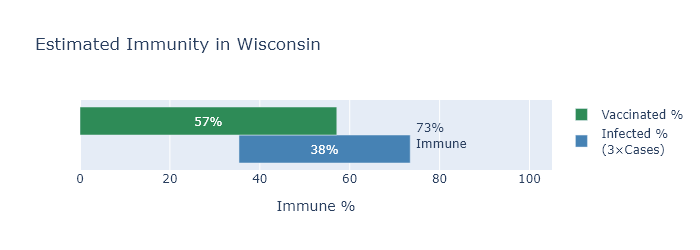
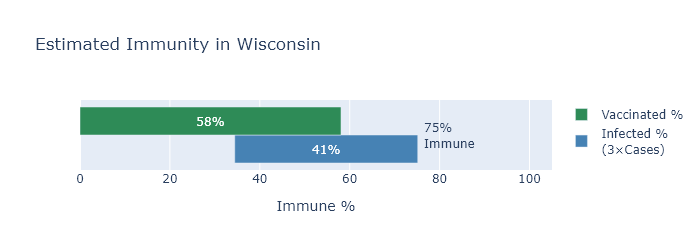
Update immune % estimates

diff --git a/docs/assets/plotly/Immune-Age.html b/docs/assets/plotly/Immune-Age.html
@@ -2,6 +2,6 @@
 <head><meta charset="utf-8" /></head>
 <body>
     <div>                        <script type="text/javascript">window.PlotlyConfig = {MathJaxConfig: 'local'};</script>
-        <script src="https://cdn.plot.ly/plotly-2.4.2.min.js"></script>                <div id="c954998f-ca0a-43e6-88ce-eabc3d1a52e5" class="plotly-graph-div" style="height:550px; width:700px;"></div>            <script type="text/javascript">                                    window.PLOTLYENV=window.PLOTLYENV || {};                                    if (document.getElementById("c954998f-ca0a-43e6-88ce-eabc3d1a52e5")) {                    Plotly.newPlot(                        "c954998f-ca0a-43e6-88ce-eabc3d1a52e5",                        [{"alignmentgroup":"True","base":[61.09587869964619,47.58997263241061,36.826702885190485,34.418061934301775,28.69430749563035,23.80360694993307,12.66368724701449],"hovertemplate":"=Est Infected %<br>Base=%{base}<br>Immune %=%{x}<br>Age group=%{y}<br>Label=%{text}<extra></extra>","insidetextanchor":"middle","legendgroup":"Est Infected %","marker":{"color":"steelblue","pattern":{"shape":""}},"name":"Infected %<br>(3&times;Cases)","offsetgroup":"Est Infected %","orientation":"h","showlegend":true,"text":["29%","35%","43%","46%","50%","55%","26%"],"textposition":"inside","type":"bar","x":[28.649685850321994,35.471070971498584,43.23286894214179,46.23353246476941,49.58382780765345,54.56351140349103,26.1012243037109],"xaxis":"x","y":["65+","55-64","45-54","35-44","25-34","18-24","<18"],"yaxis":"y"},{"alignmentgroup":"True","base":[0.0,0.0,0.0,0.0,0.0,0.0,0.0],"hovertemplate":"=Vaccinated %<br>Base=%{base}<br>Immune %=%{x}<br>Age group=%{y}<br>Label=%{text}<extra></extra>","insidetextanchor":"middle","legendgroup":"Vaccinated %","marker":{"color":"seagreen","pattern":{"shape":""}},"name":"Vaccinated %","offsetgroup":"Vaccinated %","orientation":"h","showlegend":true,"text":["86%","74%","65%","64%","57%","52%","17%"],"textposition":"inside","type":"bar","x":[85.62804442805934,73.74982561912792,64.87328529542204,64.01399145619762,56.914887124227775,52.38874676543991,17.13653186767262],"xaxis":"x","y":["65+","55-64","45-54","35-44","25-34","18-24","<18"],"yaxis":"y"}],                        {"annotations":[{"align":"left","showarrow":false,"text":"39%<br>Immune","x":45.76491155072539,"y":"<18"},{"align":"left","showarrow":false,"text":"78%<br>Immune","x":85.3671183534241,"y":"18-24"},{"align":"left","showarrow":false,"text":"78%<br>Immune","x":85.2781353032838,"y":"25-34"},{"align":"left","showarrow":false,"text":"81%<br>Immune","x":87.65159439907119,"y":"35-44"},{"align":"left","showarrow":false,"text":"80%<br>Immune","x":87.05957182733228,"y":"45-54"},{"align":"left","showarrow":false,"text":"83%<br>Immune","x":90.0610436039092,"y":"55-64"},{"align":"left","showarrow":false,"text":"90%<br>Immune","x":96.74556454996818,"y":"65+"}],"barmode":"group","height":550,"legend":{"title":{"text":""},"tracegroupgap":0,"traceorder":"reversed"},"showlegend":true,"template":{"data":{"bar":[{"error_x":{"color":"#2a3f5f"},"error_y":{"color":"#2a3f5f"},"marker":{"line":{"color":"#E5ECF6","width":0.5},"pattern":{"fillmode":"overlay","size":10,"solidity":0.2}},"type":"bar"}],"barpolar":[{"marker":{"line":{"color":"#E5ECF6","width":0.5},"pattern":{"fillmode":"overlay","size":10,"solidity":0.2}},"type":"barpolar"}],"carpet":[{"aaxis":{"endlinecolor":"#2a3f5f","gridcolor":"white","linecolor":"white","minorgridcolor":"white","startlinecolor":"#2a3f5f"},"baxis":{"endlinecolor":"#2a3f5f","gridcolor":"white","linecolor":"white","minorgridcolor":"white","startlinecolor":"#2a3f5f"},"type":"carpet"}],"choropleth":[{"colorbar":{"outlinewidth":0,"ticks":""},"type":"choropleth"}],"contour":[{"colorbar":{"outlinewidth":0,"ticks":""},"colorscale":[[0.0,"#0d0887"],[0.1111111111111111,"#46039f"],[0.2222222222222222,"#7201a8"],[0.3333333333333333,"#9c179e"],[0.4444444444444444,"#bd3786"],[0.5555555555555556,"#d8576b"],[0.6666666666666666,"#ed7953"],[0.7777777777777778,"#fb9f3a"],[0.8888888888888888,"#fdca26"],[1.0,"#f0f921"]],"type":"contour"}],"contourcarpet":[{"colorbar":{"outlinewidth":0,"ticks":""},"type":"contourcarpet"}],"heatmap":[{"colorbar":{"outlinewidth":0,"ticks":""},"colorscale":[[0.0,"#0d0887"],[0.1111111111111111,"#46039f"],[0.2222222222222222,"#7201a8"],[0.3333333333333333,"#9c179e"],[0.4444444444444444,"#bd3786"],[0.5555555555555556,"#d8576b"],[0.6666666666666666,"#ed7953"],[0.7777777777777778,"#fb9f3a"],[0.8888888888888888,"#fdca26"],[1.0,"#f0f921"]],"type":"heatmap"}],"heatmapgl":[{"colorbar":{"outlinewidth":0,"ticks":""},"colorscale":[[0.0,"#0d0887"],[0.1111111111111111,"#46039f"],[0.2222222222222222,"#7201a8"],[0.3333333333333333,"#9c179e"],[0.4444444444444444,"#bd3786"],[0.5555555555555556,"#d8576b"],[0.6666666666666666,"#ed7953"],[0.7777777777777778,"#fb9f3a"],[0.8888888888888888,"#fdca26"],[1.0,"#f0f921"]],"type":"heatmapgl"}],"histogram":[{"marker":{"pattern":{"fillmode":"overlay","size":10,"solidity":0.2}},"type":"histogram"}],"histogram2d":[{"colorbar":{"outlinewidth":0,"ticks":""},"colorscale":[[0.0,"#0d0887"],[0.1111111111111111,"#46039f"],[0.2222222222222222,"#7201a8"],[0.3333333333333333,"#9c179e"],[0.4444444444444444,"#bd3786"],[0.5555555555555556,"#d8576b"],[0.6666666666666666,"#ed7953"],[0.7777777777777778,"#fb9f3a"],[0.8888888888888888,"#fdca26"],[1.0,"#f0f921"]],"type":"histogram2d"}],"histogram2dcontour":[{"colorbar":{"outlinewidth":0,"ticks":""},"colorscale":[[0.0,"#0d0887"],[0.1111111111111111,"#46039f"],[0.2222222222222222,"#7201a8"],[0.3333333333333333,"#9c179e"],[0.4444444444444444,"#bd3786"],[0.5555555555555556,"#d8576b"],[0.6666666666666666,"#ed7953"],[0.7777777777777778,"#fb9f3a"],[0.8888888888888888,"#fdca26"],[1.0,"#f0f921"]],"type":"histogram2dcontour"}],"mesh3d":[{"colorbar":{"outlinewidth":0,"ticks":""},"type":"mesh3d"}],"parcoords":[{"line":{"colorbar":{"outlinewidth":0,"ticks":""}},"type":"parcoords"}],"pie":[{"automargin":true,"type":"pie"}],"scatter":[{"marker":{"colorbar":{"outlinewidth":0,"ticks":""}},"type":"scatter"}],"scatter3d":[{"line":{"colorbar":{"outlinewidth":0,"ticks":""}},"marker":{"colorbar":{"outlinewidth":0,"ticks":""}},"type":"scatter3d"}],"scattercarpet":[{"marker":{"colorbar":{"outlinewidth":0,"ticks":""}},"type":"scattercarpet"}],"scattergeo":[{"marker":{"colorbar":{"outlinewidth":0,"ticks":""}},"type":"scattergeo"}],"scattergl":[{"marker":{"colorbar":{"outlinewidth":0,"ticks":""}},"type":"scattergl"}],"scattermapbox":[{"marker":{"colorbar":{"outlinewidth":0,"ticks":""}},"type":"scattermapbox"}],"scatterpolar":[{"marker":{"colorbar":{"outlinewidth":0,"ticks":""}},"type":"scatterpolar"}],"scatterpolargl":[{"marker":{"colorbar":{"outlinewidth":0,"ticks":""}},"type":"scatterpolargl"}],"scatterternary":[{"marker":{"colorbar":{"outlinewidth":0,"ticks":""}},"type":"scatterternary"}],"surface":[{"colorbar":{"outlinewidth":0,"ticks":""},"colorscale":[[0.0,"#0d0887"],[0.1111111111111111,"#46039f"],[0.2222222222222222,"#7201a8"],[0.3333333333333333,"#9c179e"],[0.4444444444444444,"#bd3786"],[0.5555555555555556,"#d8576b"],[0.6666666666666666,"#ed7953"],[0.7777777777777778,"#fb9f3a"],[0.8888888888888888,"#fdca26"],[1.0,"#f0f921"]],"type":"surface"}],"table":[{"cells":{"fill":{"color":"#EBF0F8"},"line":{"color":"white"}},"header":{"fill":{"color":"#C8D4E3"},"line":{"color":"white"}},"type":"table"}]},"layout":{"annotationdefaults":{"arrowcolor":"#2a3f5f","arrowhead":0,"arrowwidth":1},"autotypenumbers":"strict","coloraxis":{"colorbar":{"outlinewidth":0,"ticks":""}},"colorscale":{"diverging":[[0,"#8e0152"],[0.1,"#c51b7d"],[0.2,"#de77ae"],[0.3,"#f1b6da"],[0.4,"#fde0ef"],[0.5,"#f7f7f7"],[0.6,"#e6f5d0"],[0.7,"#b8e186"],[0.8,"#7fbc41"],[0.9,"#4d9221"],[1,"#276419"]],"sequential":[[0.0,"#0d0887"],[0.1111111111111111,"#46039f"],[0.2222222222222222,"#7201a8"],[0.3333333333333333,"#9c179e"],[0.4444444444444444,"#bd3786"],[0.5555555555555556,"#d8576b"],[0.6666666666666666,"#ed7953"],[0.7777777777777778,"#fb9f3a"],[0.8888888888888888,"#fdca26"],[1.0,"#f0f921"]],"sequentialminus":[[0.0,"#0d0887"],[0.1111111111111111,"#46039f"],[0.2222222222222222,"#7201a8"],[0.3333333333333333,"#9c179e"],[0.4444444444444444,"#bd3786"],[0.5555555555555556,"#d8576b"],[0.6666666666666666,"#ed7953"],[0.7777777777777778,"#fb9f3a"],[0.8888888888888888,"#fdca26"],[1.0,"#f0f921"]]},"colorway":["#636efa","#EF553B","#00cc96","#ab63fa","#FFA15A","#19d3f3","#FF6692","#B6E880","#FF97FF","#FECB52"],"font":{"color":"#2a3f5f"},"geo":{"bgcolor":"white","lakecolor":"white","landcolor":"#E5ECF6","showlakes":true,"showland":true,"subunitcolor":"white"},"hoverlabel":{"align":"left"},"hovermode":"closest","mapbox":{"style":"light"},"paper_bgcolor":"white","plot_bgcolor":"#E5ECF6","polar":{"angularaxis":{"gridcolor":"white","linecolor":"white","ticks":""},"bgcolor":"#E5ECF6","radialaxis":{"gridcolor":"white","linecolor":"white","ticks":""}},"scene":{"xaxis":{"backgroundcolor":"#E5ECF6","gridcolor":"white","gridwidth":2,"linecolor":"white","showbackground":true,"ticks":"","zerolinecolor":"white"},"yaxis":{"backgroundcolor":"#E5ECF6","gridcolor":"white","gridwidth":2,"linecolor":"white","showbackground":true,"ticks":"","zerolinecolor":"white"},"zaxis":{"backgroundcolor":"#E5ECF6","gridcolor":"white","gridwidth":2,"linecolor":"white","showbackground":true,"ticks":"","zerolinecolor":"white"}},"shapedefaults":{"line":{"color":"#2a3f5f"}},"ternary":{"aaxis":{"gridcolor":"white","linecolor":"white","ticks":""},"baxis":{"gridcolor":"white","linecolor":"white","ticks":""},"bgcolor":"#E5ECF6","caxis":{"gridcolor":"white","linecolor":"white","ticks":""}},"title":{"x":0.05},"xaxis":{"automargin":true,"gridcolor":"white","linecolor":"white","ticks":"","title":{"standoff":15},"zerolinecolor":"white","zerolinewidth":2},"yaxis":{"automargin":true,"gridcolor":"white","linecolor":"white","ticks":"","title":{"standoff":15},"zerolinecolor":"white","zerolinewidth":2}}},"title":{"text":"Estimated Immunity by Age Group"},"width":700,"xaxis":{"anchor":"y","domain":[0.0,1.0],"range":[0,105],"title":{"text":"Immune %"}},"yaxis":{"anchor":"x","domain":[0.0,1.0],"title":{"text":"Age group"}}},                        {"responsive": true}                    )                };                            </script>        </div>
+        <script src="https://cdn.plot.ly/plotly-2.2.0.min.js"></script>                <div id="4af7ff85-3005-4d7d-97e8-a7afa78a392b" class="plotly-graph-div" style="height:550px; width:700px;"></div>            <script type="text/javascript">                                    window.PLOTLYENV=window.PLOTLYENV || {};                                    if (document.getElementById("4af7ff85-3005-4d7d-97e8-a7afa78a392b")) {                    Plotly.newPlot(                        "4af7ff85-3005-4d7d-97e8-a7afa78a392b",                        [{"alignmentgroup":"True","base":[60.1152527995265,46.476547258989115,35.68314380180941,32.95476228059364,27.73828306927856,23.188937403184084,12.44529407235307],"hovertemplate":"=Est Infected %<br>Base=%{base}<br>Immune %=%{x}<br>Age group=%{y}<br>Label=%{text}<extra></extra>","insidetextanchor":"middle","legendgroup":"Est Infected %","marker":{"color":"steelblue","pattern":{"shape":""}},"name":"Infected %<br>(3&times;Cases)","offsetgroup":"Est Infected %","orientation":"h","showlegend":true,"text":["31%","38%","46%","49%","52%","57%","29%"],"textposition":"inside","type":"bar","x":[30.523700455732744,37.63060369141561,45.78120459951647,49.46475261604958,52.482860107281155,56.751149912549636,29.3213140289945],"xaxis":"x","y":["65+","55-64","45-54","35-44","25-34","18-24","<18"],"yaxis":"y"},{"alignmentgroup":"True","base":[0.0,0.0,0.0,0.0,0.0,0.0,0.0],"hovertemplate":"=Vaccinated %<br>Base=%{base}<br>Immune %=%{x}<br>Age group=%{y}<br>Label=%{text}<extra></extra>","insidetextanchor":"middle","legendgroup":"Vaccinated %","marker":{"color":"seagreen","pattern":{"shape":""}},"name":"Vaccinated %","offsetgroup":"Vaccinated %","orientation":"h","showlegend":true,"text":["87%","75%","66%","65%","58%","54%","18%"],"textposition":"inside","type":"bar","x":[86.52627326707821,74.51819323220253,65.81323605262389,65.21143951312644,58.3753212670297,53.61746579688342,17.608270302957386],"xaxis":"x","y":["65+","55-64","45-54","35-44","25-34","18-24","<18"],"yaxis":"y"}],                        {"annotations":[{"align":"left","showarrow":false,"text":"42%<br>Immune","x":48.76660810134757,"y":"<18"},{"align":"left","showarrow":false,"text":"80%<br>Immune","x":86.94008731573372,"y":"18-24"},{"align":"left","showarrow":false,"text":"80%<br>Immune","x":87.2211431765597,"y":"25-34"},{"align":"left","showarrow":false,"text":"82%<br>Immune","x":89.41951489664322,"y":"35-44"},{"align":"left","showarrow":false,"text":"81%<br>Immune","x":88.46434840132588,"y":"45-54"},{"align":"left","showarrow":false,"text":"84%<br>Immune","x":91.10715095040472,"y":"55-64"},{"align":"left","showarrow":false,"text":"91%<br>Immune","x":97.63895325525924,"y":"65+"}],"barmode":"group","height":550,"legend":{"title":{"text":""},"tracegroupgap":0,"traceorder":"reversed"},"showlegend":true,"template":{"data":{"bar":[{"error_x":{"color":"#2a3f5f"},"error_y":{"color":"#2a3f5f"},"marker":{"line":{"color":"#E5ECF6","width":0.5},"pattern":{"fillmode":"overlay","size":10,"solidity":0.2}},"type":"bar"}],"barpolar":[{"marker":{"line":{"color":"#E5ECF6","width":0.5},"pattern":{"fillmode":"overlay","size":10,"solidity":0.2}},"type":"barpolar"}],"carpet":[{"aaxis":{"endlinecolor":"#2a3f5f","gridcolor":"white","linecolor":"white","minorgridcolor":"white","startlinecolor":"#2a3f5f"},"baxis":{"endlinecolor":"#2a3f5f","gridcolor":"white","linecolor":"white","minorgridcolor":"white","startlinecolor":"#2a3f5f"},"type":"carpet"}],"choropleth":[{"colorbar":{"outlinewidth":0,"ticks":""},"type":"choropleth"}],"contour":[{"colorbar":{"outlinewidth":0,"ticks":""},"colorscale":[[0.0,"#0d0887"],[0.1111111111111111,"#46039f"],[0.2222222222222222,"#7201a8"],[0.3333333333333333,"#9c179e"],[0.4444444444444444,"#bd3786"],[0.5555555555555556,"#d8576b"],[0.6666666666666666,"#ed7953"],[0.7777777777777778,"#fb9f3a"],[0.8888888888888888,"#fdca26"],[1.0,"#f0f921"]],"type":"contour"}],"contourcarpet":[{"colorbar":{"outlinewidth":0,"ticks":""},"type":"contourcarpet"}],"heatmap":[{"colorbar":{"outlinewidth":0,"ticks":""},"colorscale":[[0.0,"#0d0887"],[0.1111111111111111,"#46039f"],[0.2222222222222222,"#7201a8"],[0.3333333333333333,"#9c179e"],[0.4444444444444444,"#bd3786"],[0.5555555555555556,"#d8576b"],[0.6666666666666666,"#ed7953"],[0.7777777777777778,"#fb9f3a"],[0.8888888888888888,"#fdca26"],[1.0,"#f0f921"]],"type":"heatmap"}],"heatmapgl":[{"colorbar":{"outlinewidth":0,"ticks":""},"colorscale":[[0.0,"#0d0887"],[0.1111111111111111,"#46039f"],[0.2222222222222222,"#7201a8"],[0.3333333333333333,"#9c179e"],[0.4444444444444444,"#bd3786"],[0.5555555555555556,"#d8576b"],[0.6666666666666666,"#ed7953"],[0.7777777777777778,"#fb9f3a"],[0.8888888888888888,"#fdca26"],[1.0,"#f0f921"]],"type":"heatmapgl"}],"histogram":[{"marker":{"pattern":{"fillmode":"overlay","size":10,"solidity":0.2}},"type":"histogram"}],"histogram2d":[{"colorbar":{"outlinewidth":0,"ticks":""},"colorscale":[[0.0,"#0d0887"],[0.1111111111111111,"#46039f"],[0.2222222222222222,"#7201a8"],[0.3333333333333333,"#9c179e"],[0.4444444444444444,"#bd3786"],[0.5555555555555556,"#d8576b"],[0.6666666666666666,"#ed7953"],[0.7777777777777778,"#fb9f3a"],[0.8888888888888888,"#fdca26"],[1.0,"#f0f921"]],"type":"histogram2d"}],"histogram2dcontour":[{"colorbar":{"outlinewidth":0,"ticks":""},"colorscale":[[0.0,"#0d0887"],[0.1111111111111111,"#46039f"],[0.2222222222222222,"#7201a8"],[0.3333333333333333,"#9c179e"],[0.4444444444444444,"#bd3786"],[0.5555555555555556,"#d8576b"],[0.6666666666666666,"#ed7953"],[0.7777777777777778,"#fb9f3a"],[0.8888888888888888,"#fdca26"],[1.0,"#f0f921"]],"type":"histogram2dcontour"}],"mesh3d":[{"colorbar":{"outlinewidth":0,"ticks":""},"type":"mesh3d"}],"parcoords":[{"line":{"colorbar":{"outlinewidth":0,"ticks":""}},"type":"parcoords"}],"pie":[{"automargin":true,"type":"pie"}],"scatter":[{"marker":{"colorbar":{"outlinewidth":0,"ticks":""}},"type":"scatter"}],"scatter3d":[{"line":{"colorbar":{"outlinewidth":0,"ticks":""}},"marker":{"colorbar":{"outlinewidth":0,"ticks":""}},"type":"scatter3d"}],"scattercarpet":[{"marker":{"colorbar":{"outlinewidth":0,"ticks":""}},"type":"scattercarpet"}],"scattergeo":[{"marker":{"colorbar":{"outlinewidth":0,"ticks":""}},"type":"scattergeo"}],"scattergl":[{"marker":{"colorbar":{"outlinewidth":0,"ticks":""}},"type":"scattergl"}],"scattermapbox":[{"marker":{"colorbar":{"outlinewidth":0,"ticks":""}},"type":"scattermapbox"}],"scatterpolar":[{"marker":{"colorbar":{"outlinewidth":0,"ticks":""}},"type":"scatterpolar"}],"scatterpolargl":[{"marker":{"colorbar":{"outlinewidth":0,"ticks":""}},"type":"scatterpolargl"}],"scatterternary":[{"marker":{"colorbar":{"outlinewidth":0,"ticks":""}},"type":"scatterternary"}],"surface":[{"colorbar":{"outlinewidth":0,"ticks":""},"colorscale":[[0.0,"#0d0887"],[0.1111111111111111,"#46039f"],[0.2222222222222222,"#7201a8"],[0.3333333333333333,"#9c179e"],[0.4444444444444444,"#bd3786"],[0.5555555555555556,"#d8576b"],[0.6666666666666666,"#ed7953"],[0.7777777777777778,"#fb9f3a"],[0.8888888888888888,"#fdca26"],[1.0,"#f0f921"]],"type":"surface"}],"table":[{"cells":{"fill":{"color":"#EBF0F8"},"line":{"color":"white"}},"header":{"fill":{"color":"#C8D4E3"},"line":{"color":"white"}},"type":"table"}]},"layout":{"annotationdefaults":{"arrowcolor":"#2a3f5f","arrowhead":0,"arrowwidth":1},"autotypenumbers":"strict","coloraxis":{"colorbar":{"outlinewidth":0,"ticks":""}},"colorscale":{"diverging":[[0,"#8e0152"],[0.1,"#c51b7d"],[0.2,"#de77ae"],[0.3,"#f1b6da"],[0.4,"#fde0ef"],[0.5,"#f7f7f7"],[0.6,"#e6f5d0"],[0.7,"#b8e186"],[0.8,"#7fbc41"],[0.9,"#4d9221"],[1,"#276419"]],"sequential":[[0.0,"#0d0887"],[0.1111111111111111,"#46039f"],[0.2222222222222222,"#7201a8"],[0.3333333333333333,"#9c179e"],[0.4444444444444444,"#bd3786"],[0.5555555555555556,"#d8576b"],[0.6666666666666666,"#ed7953"],[0.7777777777777778,"#fb9f3a"],[0.8888888888888888,"#fdca26"],[1.0,"#f0f921"]],"sequentialminus":[[0.0,"#0d0887"],[0.1111111111111111,"#46039f"],[0.2222222222222222,"#7201a8"],[0.3333333333333333,"#9c179e"],[0.4444444444444444,"#bd3786"],[0.5555555555555556,"#d8576b"],[0.6666666666666666,"#ed7953"],[0.7777777777777778,"#fb9f3a"],[0.8888888888888888,"#fdca26"],[1.0,"#f0f921"]]},"colorway":["#636efa","#EF553B","#00cc96","#ab63fa","#FFA15A","#19d3f3","#FF6692","#B6E880","#FF97FF","#FECB52"],"font":{"color":"#2a3f5f"},"geo":{"bgcolor":"white","lakecolor":"white","landcolor":"#E5ECF6","showlakes":true,"showland":true,"subunitcolor":"white"},"hoverlabel":{"align":"left"},"hovermode":"closest","mapbox":{"style":"light"},"paper_bgcolor":"white","plot_bgcolor":"#E5ECF6","polar":{"angularaxis":{"gridcolor":"white","linecolor":"white","ticks":""},"bgcolor":"#E5ECF6","radialaxis":{"gridcolor":"white","linecolor":"white","ticks":""}},"scene":{"xaxis":{"backgroundcolor":"#E5ECF6","gridcolor":"white","gridwidth":2,"linecolor":"white","showbackground":true,"ticks":"","zerolinecolor":"white"},"yaxis":{"backgroundcolor":"#E5ECF6","gridcolor":"white","gridwidth":2,"linecolor":"white","showbackground":true,"ticks":"","zerolinecolor":"white"},"zaxis":{"backgroundcolor":"#E5ECF6","gridcolor":"white","gridwidth":2,"linecolor":"white","showbackground":true,"ticks":"","zerolinecolor":"white"}},"shapedefaults":{"line":{"color":"#2a3f5f"}},"ternary":{"aaxis":{"gridcolor":"white","linecolor":"white","ticks":""},"baxis":{"gridcolor":"white","linecolor":"white","ticks":""},"bgcolor":"#E5ECF6","caxis":{"gridcolor":"white","linecolor":"white","ticks":""}},"title":{"x":0.05},"xaxis":{"automargin":true,"gridcolor":"white","linecolor":"white","ticks":"","title":{"standoff":15},"zerolinecolor":"white","zerolinewidth":2},"yaxis":{"automargin":true,"gridcolor":"white","linecolor":"white","ticks":"","title":{"standoff":15},"zerolinecolor":"white","zerolinewidth":2}}},"title":{"text":"Estimated Immunity by Age Group"},"width":700,"xaxis":{"anchor":"y","domain":[0.0,1.0],"range":[0,105],"title":{"text":"Immune %"}},"yaxis":{"anchor":"x","domain":[0.0,1.0],"title":{"text":"Age group"}}},                        {"responsive": true}                    )                };                            </script>        </div>
 </body>
 </html>

diff --git a/docs/assets/plotly/Immune-Total.html b/docs/assets/plotly/Immune-Total.html
@@ -2,6 +2,6 @@
 <head><meta charset="utf-8" /></head>
 <body>
     <div>                        <script type="text/javascript">window.PlotlyConfig = {MathJaxConfig: 'local'};</script>
-        <script src="https://cdn.plot.ly/plotly-2.4.2.min.js"></script>                <div id="9867ada9-27e5-41fa-8702-17603ba320d8" class="plotly-graph-div" style="height:250px; width:700px;"></div>            <script type="text/javascript">                                    window.PLOTLYENV=window.PLOTLYENV || {};                                    if (document.getElementById("9867ada9-27e5-41fa-8702-17603ba320d8")) {                    Plotly.newPlot(                        "9867ada9-27e5-41fa-8702-17603ba320d8",                        [{"alignmentgroup":"True","base":[35.366464943931675],"hovertemplate":"=Est Infected %<br>Base=%{base}<br>Immune %=%{x}<br>Age group=%{y}<br>Label=%{text}<extra></extra>","insidetextanchor":"middle","legendgroup":"Est Infected %","marker":{"color":"steelblue","pattern":{"shape":""}},"name":"Infected %<br>(3&times;Cases)","offsetgroup":"Est Infected %","orientation":"h","showlegend":true,"text":["38%"],"textposition":"inside","type":"bar","x":[38.09262586746368],"xaxis":"x","y":[" "],"yaxis":"y"},{"alignmentgroup":"True","base":[0.0],"hovertemplate":"=Vaccinated %<br>Base=%{base}<br>Immune %=%{x}<br>Age group=%{y}<br>Label=%{text}<extra></extra>","insidetextanchor":"middle","legendgroup":"Vaccinated %","marker":{"color":"seagreen","pattern":{"shape":""}},"name":"Vaccinated %","offsetgroup":"Vaccinated %","orientation":"h","showlegend":true,"text":["57%"],"textposition":"inside","type":"bar","x":[57.12803270934458],"xaxis":"x","y":[" "],"yaxis":"y"}],                        {"annotations":[{"align":"left","showarrow":false,"text":"73%<br>Immune","x":80.45909081139536,"y":" "}],"barmode":"group","height":250,"legend":{"title":{"text":""},"tracegroupgap":0,"traceorder":"reversed"},"showlegend":true,"template":{"data":{"bar":[{"error_x":{"color":"#2a3f5f"},"error_y":{"color":"#2a3f5f"},"marker":{"line":{"color":"#E5ECF6","width":0.5},"pattern":{"fillmode":"overlay","size":10,"solidity":0.2}},"type":"bar"}],"barpolar":[{"marker":{"line":{"color":"#E5ECF6","width":0.5},"pattern":{"fillmode":"overlay","size":10,"solidity":0.2}},"type":"barpolar"}],"carpet":[{"aaxis":{"endlinecolor":"#2a3f5f","gridcolor":"white","linecolor":"white","minorgridcolor":"white","startlinecolor":"#2a3f5f"},"baxis":{"endlinecolor":"#2a3f5f","gridcolor":"white","linecolor":"white","minorgridcolor":"white","startlinecolor":"#2a3f5f"},"type":"carpet"}],"choropleth":[{"colorbar":{"outlinewidth":0,"ticks":""},"type":"choropleth"}],"contour":[{"colorbar":{"outlinewidth":0,"ticks":""},"colorscale":[[0.0,"#0d0887"],[0.1111111111111111,"#46039f"],[0.2222222222222222,"#7201a8"],[0.3333333333333333,"#9c179e"],[0.4444444444444444,"#bd3786"],[0.5555555555555556,"#d8576b"],[0.6666666666666666,"#ed7953"],[0.7777777777777778,"#fb9f3a"],[0.8888888888888888,"#fdca26"],[1.0,"#f0f921"]],"type":"contour"}],"contourcarpet":[{"colorbar":{"outlinewidth":0,"ticks":""},"type":"contourcarpet"}],"heatmap":[{"colorbar":{"outlinewidth":0,"ticks":""},"colorscale":[[0.0,"#0d0887"],[0.1111111111111111,"#46039f"],[0.2222222222222222,"#7201a8"],[0.3333333333333333,"#9c179e"],[0.4444444444444444,"#bd3786"],[0.5555555555555556,"#d8576b"],[0.6666666666666666,"#ed7953"],[0.7777777777777778,"#fb9f3a"],[0.8888888888888888,"#fdca26"],[1.0,"#f0f921"]],"type":"heatmap"}],"heatmapgl":[{"colorbar":{"outlinewidth":0,"ticks":""},"colorscale":[[0.0,"#0d0887"],[0.1111111111111111,"#46039f"],[0.2222222222222222,"#7201a8"],[0.3333333333333333,"#9c179e"],[0.4444444444444444,"#bd3786"],[0.5555555555555556,"#d8576b"],[0.6666666666666666,"#ed7953"],[0.7777777777777778,"#fb9f3a"],[0.8888888888888888,"#fdca26"],[1.0,"#f0f921"]],"type":"heatmapgl"}],"histogram":[{"marker":{"pattern":{"fillmode":"overlay","size":10,"solidity":0.2}},"type":"histogram"}],"histogram2d":[{"colorbar":{"outlinewidth":0,"ticks":""},"colorscale":[[0.0,"#0d0887"],[0.1111111111111111,"#46039f"],[0.2222222222222222,"#7201a8"],[0.3333333333333333,"#9c179e"],[0.4444444444444444,"#bd3786"],[0.5555555555555556,"#d8576b"],[0.6666666666666666,"#ed7953"],[0.7777777777777778,"#fb9f3a"],[0.8888888888888888,"#fdca26"],[1.0,"#f0f921"]],"type":"histogram2d"}],"histogram2dcontour":[{"colorbar":{"outlinewidth":0,"ticks":""},"colorscale":[[0.0,"#0d0887"],[0.1111111111111111,"#46039f"],[0.2222222222222222,"#7201a8"],[0.3333333333333333,"#9c179e"],[0.4444444444444444,"#bd3786"],[0.5555555555555556,"#d8576b"],[0.6666666666666666,"#ed7953"],[0.7777777777777778,"#fb9f3a"],[0.8888888888888888,"#fdca26"],[1.0,"#f0f921"]],"type":"histogram2dcontour"}],"mesh3d":[{"colorbar":{"outlinewidth":0,"ticks":""},"type":"mesh3d"}],"parcoords":[{"line":{"colorbar":{"outlinewidth":0,"ticks":""}},"type":"parcoords"}],"pie":[{"automargin":true,"type":"pie"}],"scatter":[{"marker":{"colorbar":{"outlinewidth":0,"ticks":""}},"type":"scatter"}],"scatter3d":[{"line":{"colorbar":{"outlinewidth":0,"ticks":""}},"marker":{"colorbar":{"outlinewidth":0,"ticks":""}},"type":"scatter3d"}],"scattercarpet":[{"marker":{"colorbar":{"outlinewidth":0,"ticks":""}},"type":"scattercarpet"}],"scattergeo":[{"marker":{"colorbar":{"outlinewidth":0,"ticks":""}},"type":"scattergeo"}],"scattergl":[{"marker":{"colorbar":{"outlinewidth":0,"ticks":""}},"type":"scattergl"}],"scattermapbox":[{"marker":{"colorbar":{"outlinewidth":0,"ticks":""}},"type":"scattermapbox"}],"scatterpolar":[{"marker":{"colorbar":{"outlinewidth":0,"ticks":""}},"type":"scatterpolar"}],"scatterpolargl":[{"marker":{"colorbar":{"outlinewidth":0,"ticks":""}},"type":"scatterpolargl"}],"scatterternary":[{"marker":{"colorbar":{"outlinewidth":0,"ticks":""}},"type":"scatterternary"}],"surface":[{"colorbar":{"outlinewidth":0,"ticks":""},"colorscale":[[0.0,"#0d0887"],[0.1111111111111111,"#46039f"],[0.2222222222222222,"#7201a8"],[0.3333333333333333,"#9c179e"],[0.4444444444444444,"#bd3786"],[0.5555555555555556,"#d8576b"],[0.6666666666666666,"#ed7953"],[0.7777777777777778,"#fb9f3a"],[0.8888888888888888,"#fdca26"],[1.0,"#f0f921"]],"type":"surface"}],"table":[{"cells":{"fill":{"color":"#EBF0F8"},"line":{"color":"white"}},"header":{"fill":{"color":"#C8D4E3"},"line":{"color":"white"}},"type":"table"}]},"layout":{"annotationdefaults":{"arrowcolor":"#2a3f5f","arrowhead":0,"arrowwidth":1},"autotypenumbers":"strict","coloraxis":{"colorbar":{"outlinewidth":0,"ticks":""}},"colorscale":{"diverging":[[0,"#8e0152"],[0.1,"#c51b7d"],[0.2,"#de77ae"],[0.3,"#f1b6da"],[0.4,"#fde0ef"],[0.5,"#f7f7f7"],[0.6,"#e6f5d0"],[0.7,"#b8e186"],[0.8,"#7fbc41"],[0.9,"#4d9221"],[1,"#276419"]],"sequential":[[0.0,"#0d0887"],[0.1111111111111111,"#46039f"],[0.2222222222222222,"#7201a8"],[0.3333333333333333,"#9c179e"],[0.4444444444444444,"#bd3786"],[0.5555555555555556,"#d8576b"],[0.6666666666666666,"#ed7953"],[0.7777777777777778,"#fb9f3a"],[0.8888888888888888,"#fdca26"],[1.0,"#f0f921"]],"sequentialminus":[[0.0,"#0d0887"],[0.1111111111111111,"#46039f"],[0.2222222222222222,"#7201a8"],[0.3333333333333333,"#9c179e"],[0.4444444444444444,"#bd3786"],[0.5555555555555556,"#d8576b"],[0.6666666666666666,"#ed7953"],[0.7777777777777778,"#fb9f3a"],[0.8888888888888888,"#fdca26"],[1.0,"#f0f921"]]},"colorway":["#636efa","#EF553B","#00cc96","#ab63fa","#FFA15A","#19d3f3","#FF6692","#B6E880","#FF97FF","#FECB52"],"font":{"color":"#2a3f5f"},"geo":{"bgcolor":"white","lakecolor":"white","landcolor":"#E5ECF6","showlakes":true,"showland":true,"subunitcolor":"white"},"hoverlabel":{"align":"left"},"hovermode":"closest","mapbox":{"style":"light"},"paper_bgcolor":"white","plot_bgcolor":"#E5ECF6","polar":{"angularaxis":{"gridcolor":"white","linecolor":"white","ticks":""},"bgcolor":"#E5ECF6","radialaxis":{"gridcolor":"white","linecolor":"white","ticks":""}},"scene":{"xaxis":{"backgroundcolor":"#E5ECF6","gridcolor":"white","gridwidth":2,"linecolor":"white","showbackground":true,"ticks":"","zerolinecolor":"white"},"yaxis":{"backgroundcolor":"#E5ECF6","gridcolor":"white","gridwidth":2,"linecolor":"white","showbackground":true,"ticks":"","zerolinecolor":"white"},"zaxis":{"backgroundcolor":"#E5ECF6","gridcolor":"white","gridwidth":2,"linecolor":"white","showbackground":true,"ticks":"","zerolinecolor":"white"}},"shapedefaults":{"line":{"color":"#2a3f5f"}},"ternary":{"aaxis":{"gridcolor":"white","linecolor":"white","ticks":""},"baxis":{"gridcolor":"white","linecolor":"white","ticks":""},"bgcolor":"#E5ECF6","caxis":{"gridcolor":"white","linecolor":"white","ticks":""}},"title":{"x":0.05},"xaxis":{"automargin":true,"gridcolor":"white","linecolor":"white","ticks":"","title":{"standoff":15},"zerolinecolor":"white","zerolinewidth":2},"yaxis":{"automargin":true,"gridcolor":"white","linecolor":"white","ticks":"","title":{"standoff":15},"zerolinecolor":"white","zerolinewidth":2}}},"title":{"text":"Estimated Immunity in Wisconsin"},"width":700,"xaxis":{"anchor":"y","domain":[0.0,1.0],"range":[0,105],"title":{"text":"Immune %"}},"yaxis":{"anchor":"x","domain":[0.0,1.0],"title":{"text":""}}},                        {"responsive": true}                    )                };                            </script>        </div>
+        <script src="https://cdn.plot.ly/plotly-2.2.0.min.js"></script>                <div id="6cca0f30-dc75-4450-8c4f-656d11b157eb" class="plotly-graph-div" style="height:250px; width:700px;"></div>            <script type="text/javascript">                                    window.PLOTLYENV=window.PLOTLYENV || {};                                    if (document.getElementById("6cca0f30-dc75-4450-8c4f-656d11b157eb")) {                    Plotly.newPlot(                        "6cca0f30-dc75-4450-8c4f-656d11b157eb",                        [{"alignmentgroup":"True","base":[34.424449934702636],"hovertemplate":"=Est Infected %<br>Base=%{base}<br>Immune %=%{x}<br>Age group=%{y}<br>Label=%{text}<extra></extra>","insidetextanchor":"middle","legendgroup":"Est Infected %","marker":{"color":"steelblue","pattern":{"shape":""}},"name":"Infected %<br>(3&times;Cases)","offsetgroup":"Est Infected %","orientation":"h","showlegend":true,"text":["41%"],"textposition":"inside","type":"bar","x":[40.708078442795575],"xaxis":"x","y":[" "],"yaxis":"y"},{"alignmentgroup":"True","base":[0.0],"hovertemplate":"=Vaccinated %<br>Base=%{base}<br>Immune %=%{x}<br>Age group=%{y}<br>Label=%{text}<extra></extra>","insidetextanchor":"middle","legendgroup":"Vaccinated %","marker":{"color":"seagreen","pattern":{"shape":""}},"name":"Vaccinated %","offsetgroup":"Vaccinated %","orientation":"h","showlegend":true,"text":["58%"],"textposition":"inside","type":"bar","x":[58.05925837888416],"xaxis":"x","y":[" "],"yaxis":"y"}],                        {"annotations":[{"align":"left","showarrow":false,"text":"75%<br>Immune","x":82.1325283774982,"y":" "}],"barmode":"group","height":250,"legend":{"title":{"text":""},"tracegroupgap":0,"traceorder":"reversed"},"showlegend":true,"template":{"data":{"bar":[{"error_x":{"color":"#2a3f5f"},"error_y":{"color":"#2a3f5f"},"marker":{"line":{"color":"#E5ECF6","width":0.5},"pattern":{"fillmode":"overlay","size":10,"solidity":0.2}},"type":"bar"}],"barpolar":[{"marker":{"line":{"color":"#E5ECF6","width":0.5},"pattern":{"fillmode":"overlay","size":10,"solidity":0.2}},"type":"barpolar"}],"carpet":[{"aaxis":{"endlinecolor":"#2a3f5f","gridcolor":"white","linecolor":"white","minorgridcolor":"white","startlinecolor":"#2a3f5f"},"baxis":{"endlinecolor":"#2a3f5f","gridcolor":"white","linecolor":"white","minorgridcolor":"white","startlinecolor":"#2a3f5f"},"type":"carpet"}],"choropleth":[{"colorbar":{"outlinewidth":0,"ticks":""},"type":"choropleth"}],"contour":[{"colorbar":{"outlinewidth":0,"ticks":""},"colorscale":[[0.0,"#0d0887"],[0.1111111111111111,"#46039f"],[0.2222222222222222,"#7201a8"],[0.3333333333333333,"#9c179e"],[0.4444444444444444,"#bd3786"],[0.5555555555555556,"#d8576b"],[0.6666666666666666,"#ed7953"],[0.7777777777777778,"#fb9f3a"],[0.8888888888888888,"#fdca26"],[1.0,"#f0f921"]],"type":"contour"}],"contourcarpet":[{"colorbar":{"outlinewidth":0,"ticks":""},"type":"contourcarpet"}],"heatmap":[{"colorbar":{"outlinewidth":0,"ticks":""},"colorscale":[[0.0,"#0d0887"],[0.1111111111111111,"#46039f"],[0.2222222222222222,"#7201a8"],[0.3333333333333333,"#9c179e"],[0.4444444444444444,"#bd3786"],[0.5555555555555556,"#d8576b"],[0.6666666666666666,"#ed7953"],[0.7777777777777778,"#fb9f3a"],[0.8888888888888888,"#fdca26"],[1.0,"#f0f921"]],"type":"heatmap"}],"heatmapgl":[{"colorbar":{"outlinewidth":0,"ticks":""},"colorscale":[[0.0,"#0d0887"],[0.1111111111111111,"#46039f"],[0.2222222222222222,"#7201a8"],[0.3333333333333333,"#9c179e"],[0.4444444444444444,"#bd3786"],[0.5555555555555556,"#d8576b"],[0.6666666666666666,"#ed7953"],[0.7777777777777778,"#fb9f3a"],[0.8888888888888888,"#fdca26"],[1.0,"#f0f921"]],"type":"heatmapgl"}],"histogram":[{"marker":{"pattern":{"fillmode":"overlay","size":10,"solidity":0.2}},"type":"histogram"}],"histogram2d":[{"colorbar":{"outlinewidth":0,"ticks":""},"colorscale":[[0.0,"#0d0887"],[0.1111111111111111,"#46039f"],[0.2222222222222222,"#7201a8"],[0.3333333333333333,"#9c179e"],[0.4444444444444444,"#bd3786"],[0.5555555555555556,"#d8576b"],[0.6666666666666666,"#ed7953"],[0.7777777777777778,"#fb9f3a"],[0.8888888888888888,"#fdca26"],[1.0,"#f0f921"]],"type":"histogram2d"}],"histogram2dcontour":[{"colorbar":{"outlinewidth":0,"ticks":""},"colorscale":[[0.0,"#0d0887"],[0.1111111111111111,"#46039f"],[0.2222222222222222,"#7201a8"],[0.3333333333333333,"#9c179e"],[0.4444444444444444,"#bd3786"],[0.5555555555555556,"#d8576b"],[0.6666666666666666,"#ed7953"],[0.7777777777777778,"#fb9f3a"],[0.8888888888888888,"#fdca26"],[1.0,"#f0f921"]],"type":"histogram2dcontour"}],"mesh3d":[{"colorbar":{"outlinewidth":0,"ticks":""},"type":"mesh3d"}],"parcoords":[{"line":{"colorbar":{"outlinewidth":0,"ticks":""}},"type":"parcoords"}],"pie":[{"automargin":true,"type":"pie"}],"scatter":[{"marker":{"colorbar":{"outlinewidth":0,"ticks":""}},"type":"scatter"}],"scatter3d":[{"line":{"colorbar":{"outlinewidth":0,"ticks":""}},"marker":{"colorbar":{"outlinewidth":0,"ticks":""}},"type":"scatter3d"}],"scattercarpet":[{"marker":{"colorbar":{"outlinewidth":0,"ticks":""}},"type":"scattercarpet"}],"scattergeo":[{"marker":{"colorbar":{"outlinewidth":0,"ticks":""}},"type":"scattergeo"}],"scattergl":[{"marker":{"colorbar":{"outlinewidth":0,"ticks":""}},"type":"scattergl"}],"scattermapbox":[{"marker":{"colorbar":{"outlinewidth":0,"ticks":""}},"type":"scattermapbox"}],"scatterpolar":[{"marker":{"colorbar":{"outlinewidth":0,"ticks":""}},"type":"scatterpolar"}],"scatterpolargl":[{"marker":{"colorbar":{"outlinewidth":0,"ticks":""}},"type":"scatterpolargl"}],"scatterternary":[{"marker":{"colorbar":{"outlinewidth":0,"ticks":""}},"type":"scatterternary"}],"surface":[{"colorbar":{"outlinewidth":0,"ticks":""},"colorscale":[[0.0,"#0d0887"],[0.1111111111111111,"#46039f"],[0.2222222222222222,"#7201a8"],[0.3333333333333333,"#9c179e"],[0.4444444444444444,"#bd3786"],[0.5555555555555556,"#d8576b"],[0.6666666666666666,"#ed7953"],[0.7777777777777778,"#fb9f3a"],[0.8888888888888888,"#fdca26"],[1.0,"#f0f921"]],"type":"surface"}],"table":[{"cells":{"fill":{"color":"#EBF0F8"},"line":{"color":"white"}},"header":{"fill":{"color":"#C8D4E3"},"line":{"color":"white"}},"type":"table"}]},"layout":{"annotationdefaults":{"arrowcolor":"#2a3f5f","arrowhead":0,"arrowwidth":1},"autotypenumbers":"strict","coloraxis":{"colorbar":{"outlinewidth":0,"ticks":""}},"colorscale":{"diverging":[[0,"#8e0152"],[0.1,"#c51b7d"],[0.2,"#de77ae"],[0.3,"#f1b6da"],[0.4,"#fde0ef"],[0.5,"#f7f7f7"],[0.6,"#e6f5d0"],[0.7,"#b8e186"],[0.8,"#7fbc41"],[0.9,"#4d9221"],[1,"#276419"]],"sequential":[[0.0,"#0d0887"],[0.1111111111111111,"#46039f"],[0.2222222222222222,"#7201a8"],[0.3333333333333333,"#9c179e"],[0.4444444444444444,"#bd3786"],[0.5555555555555556,"#d8576b"],[0.6666666666666666,"#ed7953"],[0.7777777777777778,"#fb9f3a"],[0.8888888888888888,"#fdca26"],[1.0,"#f0f921"]],"sequentialminus":[[0.0,"#0d0887"],[0.1111111111111111,"#46039f"],[0.2222222222222222,"#7201a8"],[0.3333333333333333,"#9c179e"],[0.4444444444444444,"#bd3786"],[0.5555555555555556,"#d8576b"],[0.6666666666666666,"#ed7953"],[0.7777777777777778,"#fb9f3a"],[0.8888888888888888,"#fdca26"],[1.0,"#f0f921"]]},"colorway":["#636efa","#EF553B","#00cc96","#ab63fa","#FFA15A","#19d3f3","#FF6692","#B6E880","#FF97FF","#FECB52"],"font":{"color":"#2a3f5f"},"geo":{"bgcolor":"white","lakecolor":"white","landcolor":"#E5ECF6","showlakes":true,"showland":true,"subunitcolor":"white"},"hoverlabel":{"align":"left"},"hovermode":"closest","mapbox":{"style":"light"},"paper_bgcolor":"white","plot_bgcolor":"#E5ECF6","polar":{"angularaxis":{"gridcolor":"white","linecolor":"white","ticks":""},"bgcolor":"#E5ECF6","radialaxis":{"gridcolor":"white","linecolor":"white","ticks":""}},"scene":{"xaxis":{"backgroundcolor":"#E5ECF6","gridcolor":"white","gridwidth":2,"linecolor":"white","showbackground":true,"ticks":"","zerolinecolor":"white"},"yaxis":{"backgroundcolor":"#E5ECF6","gridcolor":"white","gridwidth":2,"linecolor":"white","showbackground":true,"ticks":"","zerolinecolor":"white"},"zaxis":{"backgroundcolor":"#E5ECF6","gridcolor":"white","gridwidth":2,"linecolor":"white","showbackground":true,"ticks":"","zerolinecolor":"white"}},"shapedefaults":{"line":{"color":"#2a3f5f"}},"ternary":{"aaxis":{"gridcolor":"white","linecolor":"white","ticks":""},"baxis":{"gridcolor":"white","linecolor":"white","ticks":""},"bgcolor":"#E5ECF6","caxis":{"gridcolor":"white","linecolor":"white","ticks":""}},"title":{"x":0.05},"xaxis":{"automargin":true,"gridcolor":"white","linecolor":"white","ticks":"","title":{"standoff":15},"zerolinecolor":"white","zerolinewidth":2},"yaxis":{"automargin":true,"gridcolor":"white","linecolor":"white","ticks":"","title":{"standoff":15},"zerolinecolor":"white","zerolinewidth":2}}},"title":{"text":"Estimated Immunity in Wisconsin"},"width":700,"xaxis":{"anchor":"y","domain":[0.0,1.0],"range":[0,105],"title":{"text":"Immune %"}},"yaxis":{"anchor":"x","domain":[0.0,1.0],"title":{"text":""}}},                        {"responsive": true}                    )                };                            </script>        </div>
 </body>
 </html>

diff --git a/covid.py b/covid.py
@@ -1795,6 +1795,19 @@ def scrape_widash_agecases():
     age_cases = age_cases.rename(columns=col_rename)
     age_cases['Week of'] = pd.to_datetime(age_cases['Week of'])
 
+    # convert columns to numeric    
+    if isinstance(age_cases['Cases'].iloc[0], str):
+        age_cases['Cases'] = pd.to_numeric(age_cases['Cases'].apply(lambda x: x.replace(',','')))    
+    else:
+        age_cases['Cases'] = pd.to_numeric(age_cases['Cases'])
+        
+    if isinstance(age_cases['Case rate'].iloc[0], str):
+        age_cases['Case rate'] = pd.to_numeric(age_cases['Case rate'].apply(lambda x: x.replace(',','')))
+    else:
+        age_cases['Case rate'] = pd.to_numeric(age_cases['Case rate'])
+        
+            
+
     # Get desired order of age groups (not alphabetical)
     # first rename <18 so age order is also alphabetical, then sort, then 
     # rename back

diff --git a/BlogNumberImmune.py b/BlogNumberImmune.py
@@ -345,16 +345,19 @@ os.startfile(save_png)
 
 #%% Estimate total 
 
+print('Total immune estimate %')
+print(age_total.loc['All', 'Immune %'])
 
-# wi_pop = age_total['Population'].sum()
-total_immune_age = (age_total['Immune %'] / 100 * age_total['Population']).sum() / wi_pop
+age_adjusted = age_total.loc[age_groups]
+total_immune_adjusted = (age_adjusted['Immune %']/100 * age_adjusted['Population']).sum() / wi_pop
 
-total_vax = age_total['Vaccinated #'].sum() / wi_pop
-total_infected = age_total['Cases'].sum() * infection_factor / wi_pop
-total_immune_naive = total_vax + (1-total_vax) * total_infected
+print('Total immune estimate %, adjusted by age')
+print(total_immune_adjusted*100)
 
 
 #%% Trying by county?
+
+exit
 
 county = covid.read_covid_data_wi('county')
 county = county[county.Date==pd.to_datetime('2021-05-20')]
